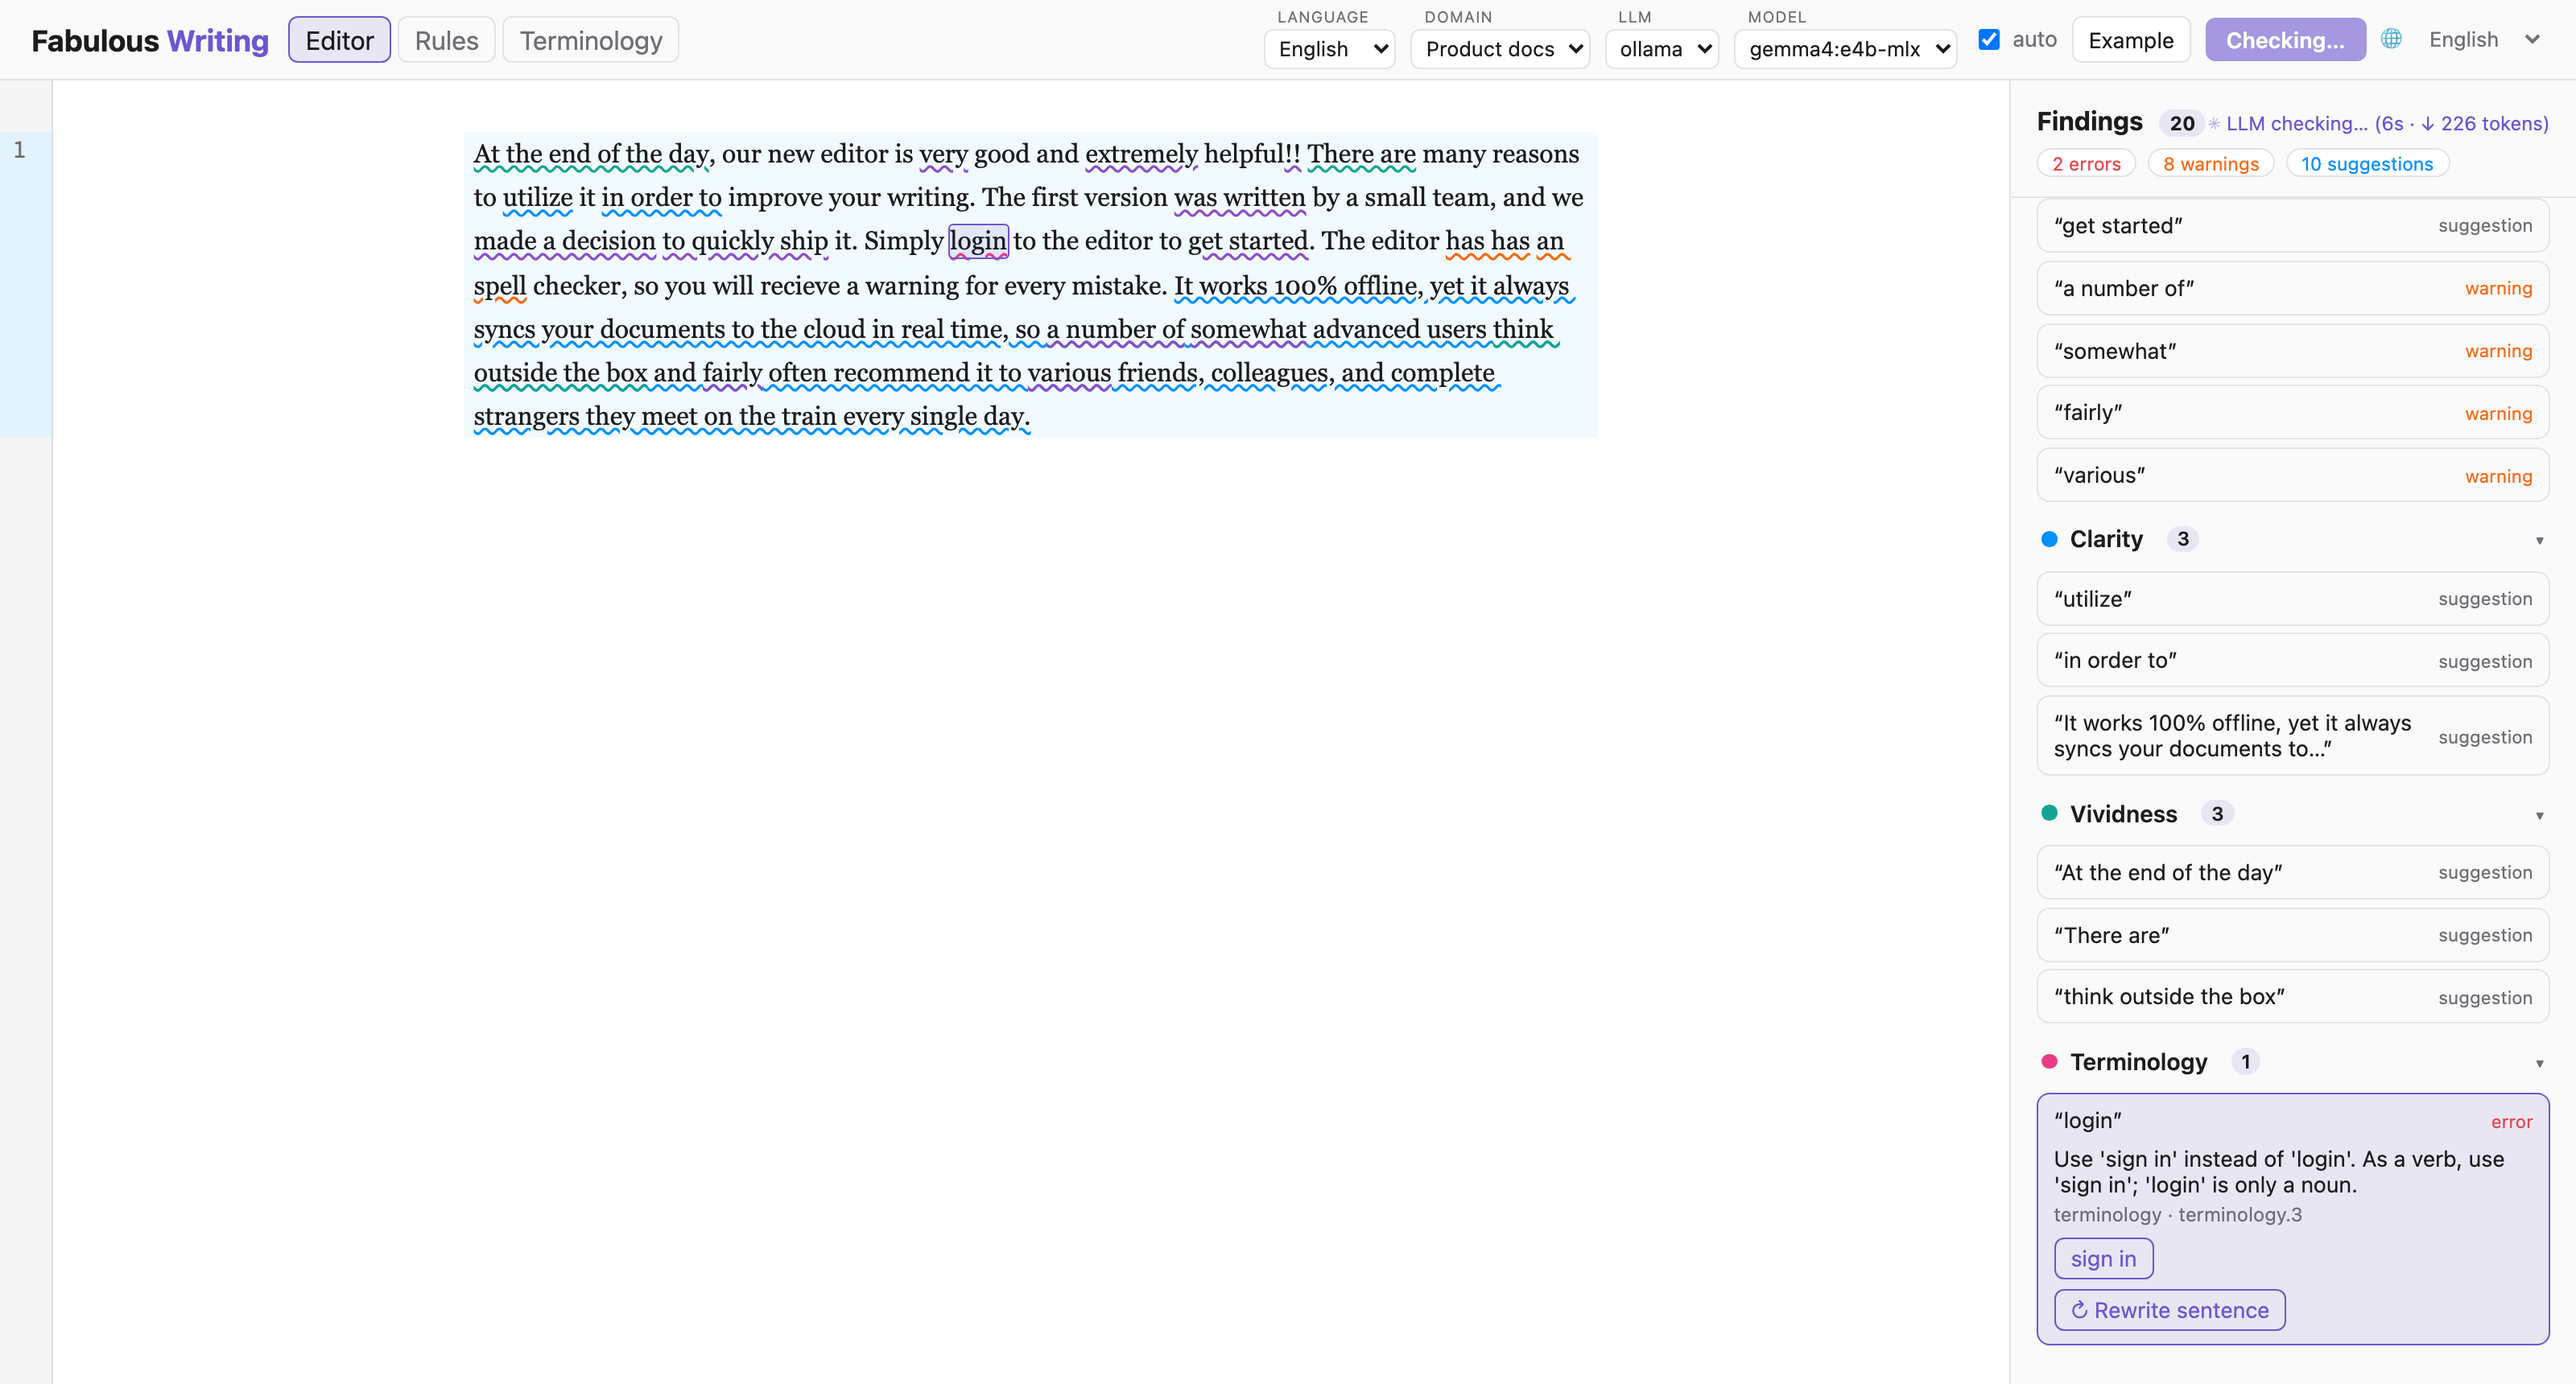
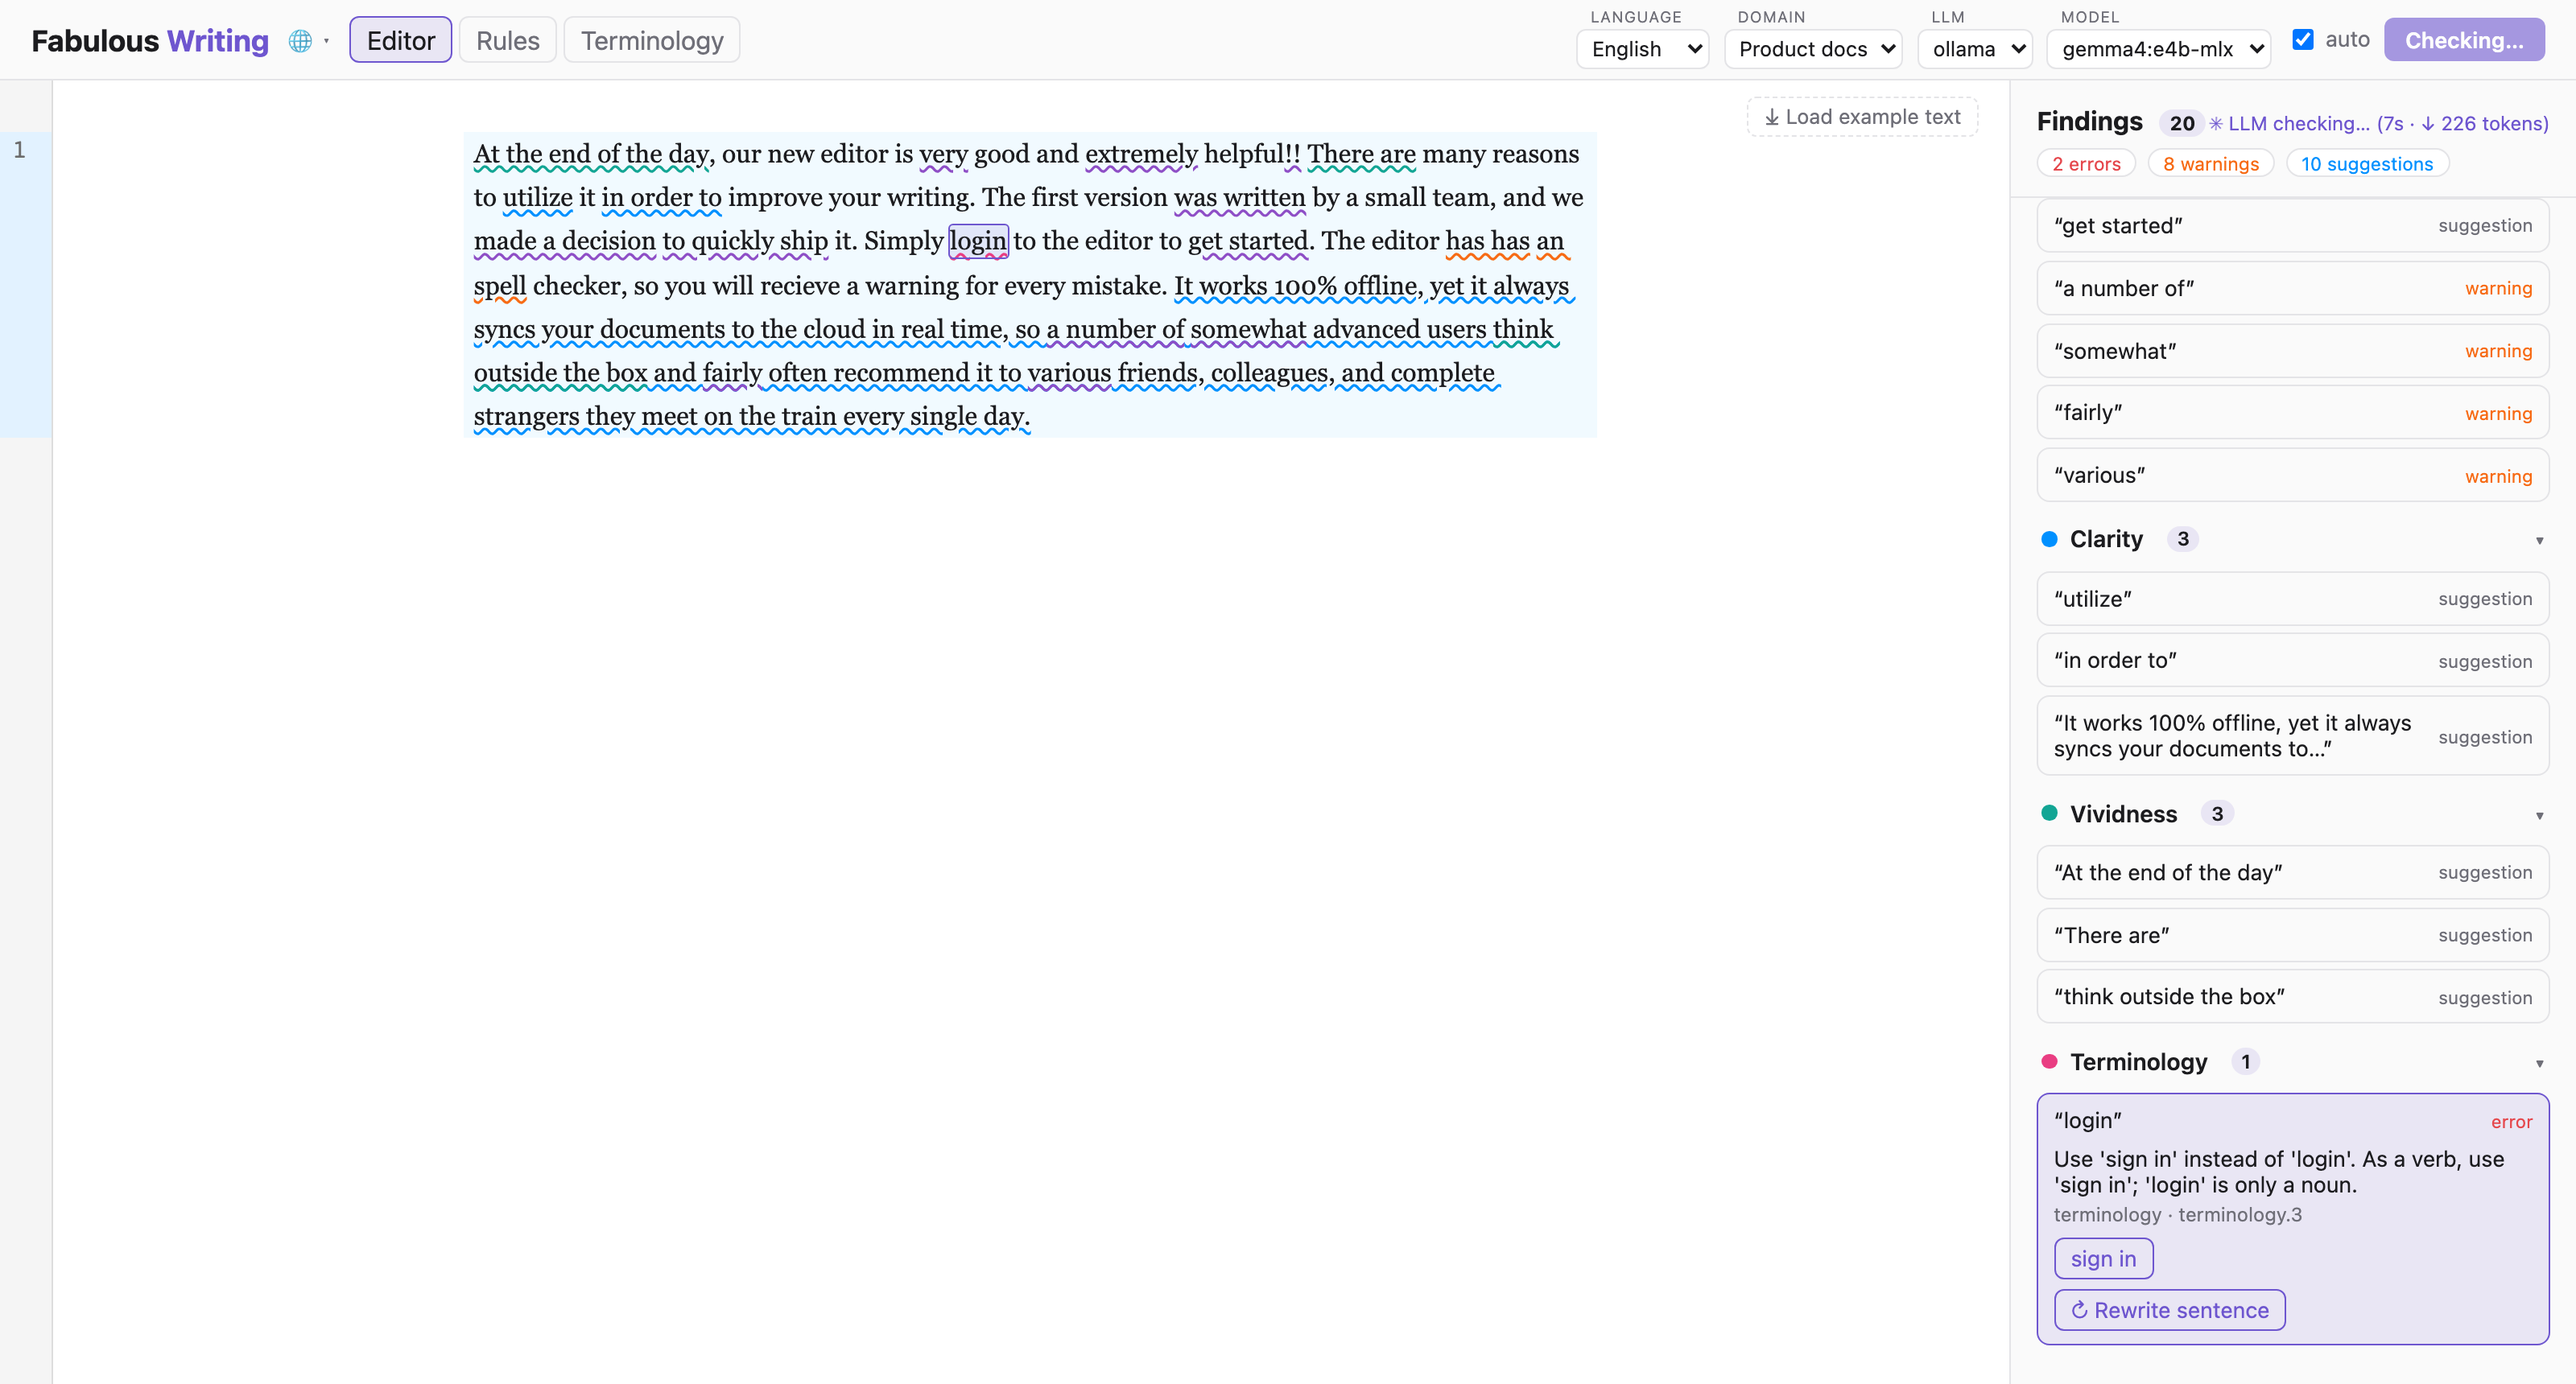
Rearrange header: locale by wordmark, auto beside Check, Example into editor
The 🌐 locale switcher was sitting next to the Check button, where it
read as the check-language selector; it moves to the far left beside the
wordmark as an icon-only control (a transparent select overlays the
globe, native names in the dropdown). The auto checkbox now sits
directly before Check as one action pair. The Example button leaves the
header: loading a demo text is a content action, so it becomes a ghost
button floating over the editor's top-right corner ('⤓ Load example
text', localized). README screenshots refreshed.

Changed region(s): [[0.5625, 0.0, 1.0, 0.0924], [0.125, 0.0, 0.2812, 0.0616], [0.5, 0.0, 0.5312, 0.0616]]

diff --git a/frontend/src/App.css b/frontend/src/App.css
@@ -93,9 +93,8 @@
   max-width: min(10.5rem, 12vw);
 }
 
-/* Checkbox and locale switcher keep their compact inline form. */
-.header-controls .auto-toggle,
-.header-controls .locale-switch {
+/* The auto checkbox keeps its compact inline form. */
+.header-controls .auto-toggle {
   flex-direction: row;
   align-items: center;
   gap: 0.3rem;
@@ -103,11 +102,6 @@
   font-size: 0.85rem;
   text-transform: none;
   letter-spacing: normal;
-}
-
-.header-controls .auto-toggle select,
-.header-controls .locale-switch select {
-  margin-left: 0;
 }
 
 /* Compact mode for narrow windows: same height, tighter type and gaps. */
@@ -133,11 +127,6 @@
     max-width: min(9rem, 10vw);
   }
 
-  .header-controls .locale-switch select {
-    max-width: 4.5rem;
-  }
-
-  .example-button,
   .check-button {
     padding: 0.35rem 0.5rem;
     font-size: 0.85rem;
@@ -151,19 +140,32 @@
   }
 }
 
-.example-button {
-  padding: 0.35rem 0.6rem;
-  border-radius: 6px;
-  border: 1px solid var(--border);
-  background: var(--bg);
-  color: var(--text);
+/* Icon-only UI-language switcher next to the wordmark; the transparent
+   select overlays the icon so a click opens the native dropdown. */
+.locale-switch {
+  position: relative;
+  display: inline-flex;
+  align-items: center;
+  gap: 0.15rem;
+  color: var(--text-dim);
+  font-size: 0.95rem;
   cursor: pointer;
-  white-space: nowrap;
 }
 
-.example-button:hover {
-  border-color: var(--accent);
+.locale-switch:hover {
   color: var(--accent);
+}
+
+.locale-caret {
+  font-size: 0.6rem;
+}
+
+.locale-switch select {
+  position: absolute;
+  inset: 0;
+  opacity: 0;
+  border: none;
+  cursor: pointer;
 }
 
 .check-button {
@@ -190,10 +192,39 @@
   min-height: 0;
 }
 
+.editor-area {
+  position: relative;
+  display: flex;
+  flex: 1;
+  min-width: 0;
+}
+
 .editor {
   flex: 1;
   overflow: auto;
   min-width: 0;
+}
+
+/* Ghost action floating over the editor's top-right corner. */
+.load-example {
+  position: absolute;
+  top: 0.6rem;
+  right: 1.2rem;
+  z-index: 5;
+  padding: 0.25rem 0.6rem;
+  border-radius: 6px;
+  border: 1px dashed var(--border);
+  background: color-mix(in srgb, var(--bg) 80%, transparent);
+  color: var(--text-dim);
+  font-size: 0.8rem;
+  cursor: pointer;
+  white-space: nowrap;
+}
+
+.load-example:hover {
+  border-color: var(--accent);
+  border-style: solid;
+  color: var(--accent);
 }
 
 .editor .cm-editor {
@@ -563,27 +594,6 @@
 .case-label {
   font-size: 0.75rem;
   margin-right: 0.4rem;
-}
-
-.locale-switch {
-  display: inline-flex;
-  align-items: center;
-  gap: 0.25rem;
-  color: var(--text-dim);
-  font-size: 0.85rem;
-  white-space: nowrap;
-}
-
-.locale-switch select {
-  border: none;
-  background: transparent;
-  color: var(--text-dim);
-  cursor: pointer;
-  max-width: 6.5rem;
-}
-
-.locale-switch select:hover {
-  color: var(--accent);
 }
 
 .icon-button {

diff --git a/frontend/src/App.tsx b/frontend/src/App.tsx
@@ -20,7 +20,10 @@ export default function App() {
       <Header />
       {activeView === 'editor' && (
         <main className="workspace">
-          <Editor />
+          <div className="editor-area">
+            <Editor />
+            <LoadExampleButton />
+          </div>
           <Sidebar />
         </main>
       )}
@@ -47,6 +50,7 @@ function Header() {
       <h1>
         Fabulous <span className="accent">Writing</span>
       </h1>
+      <LocaleSwitcher />
       <nav className="view-switch">
         <button
           className={store.activeView === 'editor' ? 'active' : ''}
@@ -136,29 +140,12 @@ function Header() {
           {m.autoLabel}
         </label>
         <button
-          className="example-button"
-          title={m.exampleTitle}
-          onClick={() => {
-            store.setActiveView('editor')
-            // Terminology only runs with a domain; default to the first one.
-            if (store.domainId === null && store.domains.length > 0) {
-              store.setDomainId(store.domains[0].id)
-            }
-            void getDemoText(store.language)
-              .then(({ text }) => setEditorText(text))
-              .catch(() => {})
-          }}
-        >
-          {m.example}
-        </button>
-        <button
           className="check-button"
           disabled={store.checkPhase !== 'idle'}
           onClick={() => void runCheck(true)}
         >
           {store.checkPhase === 'idle' ? m.check : m.checking}
         </button>
-        <LocaleSwitcher />
       </div>
     </header>
   )
@@ -171,6 +158,9 @@ function LocaleSwitcher() {
   return (
     <label className="locale-switch" title={m.uiLocaleTitle}>
       <span aria-hidden="true">🌐</span>
+      <span className="locale-caret" aria-hidden="true">
+        ▾
+      </span>
       <select
         value={locale}
         aria-label={m.uiLocaleTitle}
@@ -183,5 +173,27 @@ function LocaleSwitcher() {
         ))}
       </select>
     </label>
+  )
+}
+
+function LoadExampleButton() {
+  const m = useMessages()
+  return (
+    <button
+      className="load-example"
+      title={m.exampleTitle}
+      onClick={() => {
+        const store = useStore.getState()
+        // Terminology only runs with a domain; default to the first one.
+        if (store.domainId === null && store.domains.length > 0) {
+          store.setDomainId(store.domains[0].id)
+        }
+        void getDemoText(store.language)
+          .then(({ text }) => setEditorText(text))
+          .catch(() => {})
+      }}
+    >
+      ⤓ {m.loadExample}
+    </button>
   )
 }

diff --git a/frontend/src/i18n/ja.ts b/frontend/src/i18n/ja.ts
@@ -28,7 +28,7 @@ export const ja: Messages = {
   offlineSuffix: '(オフライン)',
   autoLabel: '自動',
   autoTitle: '入力が止まったら LLM チェックを自動実行',
-  example: '例文',
+  loadExample: '例文を読み込む',
   exampleTitle: '選択中の言語の誤りを含む例文でエディターの内容を置き換える',
   check: 'チェック',
   checking: 'チェック中…',

diff --git a/frontend/src/i18n/es.ts b/frontend/src/i18n/es.ts
@@ -38,7 +38,7 @@ export const es: Messages = {
   offlineSuffix: ' (sin conexión)',
   autoLabel: 'auto',
   autoTitle: 'Ejecutar la comprobación LLM automáticamente tras una pausa',
-  example: 'Ejemplo',
+  loadExample: 'Cargar texto de ejemplo',
   exampleTitle:
     'Reemplazar el contenido del editor por un texto de ejemplo con errores para el idioma seleccionado',
   check: 'Comprobar',

diff --git a/frontend/src/i18n/fr.ts b/frontend/src/i18n/fr.ts
@@ -38,7 +38,7 @@ export const fr: Messages = {
   offlineSuffix: ' (hors ligne)',
   autoLabel: 'auto',
   autoTitle: 'Lancer la vérification LLM automatiquement après une pause',
-  example: 'Exemple',
+  loadExample: "Charger un texte d'exemple",
   exampleTitle:
     "Remplacer le contenu de l'éditeur par un texte d'exemple fautif pour la langue sélectionnée",
   check: 'Vérifier',

diff --git a/frontend/src/i18n/it.ts b/frontend/src/i18n/it.ts
@@ -34,7 +34,7 @@ export const it: Messages = {
   offlineSuffix: ' (offline)',
   autoLabel: 'auto',
   autoTitle: 'Esegui automaticamente il controllo LLM dopo una pausa',
-  example: 'Esempio',
+  loadExample: 'Carica testo di esempio',
   exampleTitle:
     "Sostituisci il contenuto dell'editor con un testo di esempio difettoso per la lingua selezionata",
   check: 'Controlla',

diff --git a/frontend/src/i18n/en.ts b/frontend/src/i18n/en.ts
@@ -23,7 +23,7 @@ export const en: Messages = {
   offlineSuffix: ' (offline)',
   autoLabel: 'auto',
   autoTitle: 'Run the LLM check automatically after a pause',
-  example: 'Example',
+  loadExample: 'Load example text',
   exampleTitle: 'Replace the editor content with a flawed example text for the selected language',
   check: 'Check',
   checking: 'Checking…',

diff --git a/frontend/src/i18n/de.ts b/frontend/src/i18n/de.ts
@@ -29,7 +29,7 @@ export const de: Messages = {
   offlineSuffix: ' (offline)',
   autoLabel: 'auto',
   autoTitle: 'LLM-Prüfung nach einer Pause automatisch ausführen',
-  example: 'Beispiel',
+  loadExample: 'Beispieltext laden',
   exampleTitle:
     'Editor-Inhalt durch einen fehlerhaften Beispieltext für die gewählte Sprache ersetzen',
   check: 'Prüfen',

diff --git a/frontend/src/i18n/zh.ts b/frontend/src/i18n/zh.ts
@@ -28,7 +28,7 @@ export const zh: Messages = {
   offlineSuffix: '(离线)',
   autoLabel: '自动',
   autoTitle: '停顿后自动运行 LLM 检查',
-  example: '示例',
+  loadExample: '载入示例文本',
   exampleTitle: '用所选语言的含错示例文本替换编辑器内容',
   check: '检查',
   checking: '检查中…',

diff --git a/frontend/src/i18n/messages.ts b/frontend/src/i18n/messages.ts
@@ -32,7 +32,7 @@ export interface Messages {
   offlineSuffix: string
   autoLabel: string
   autoTitle: string
-  example: string
+  loadExample: string
   exampleTitle: string
   check: string
   checking: string
